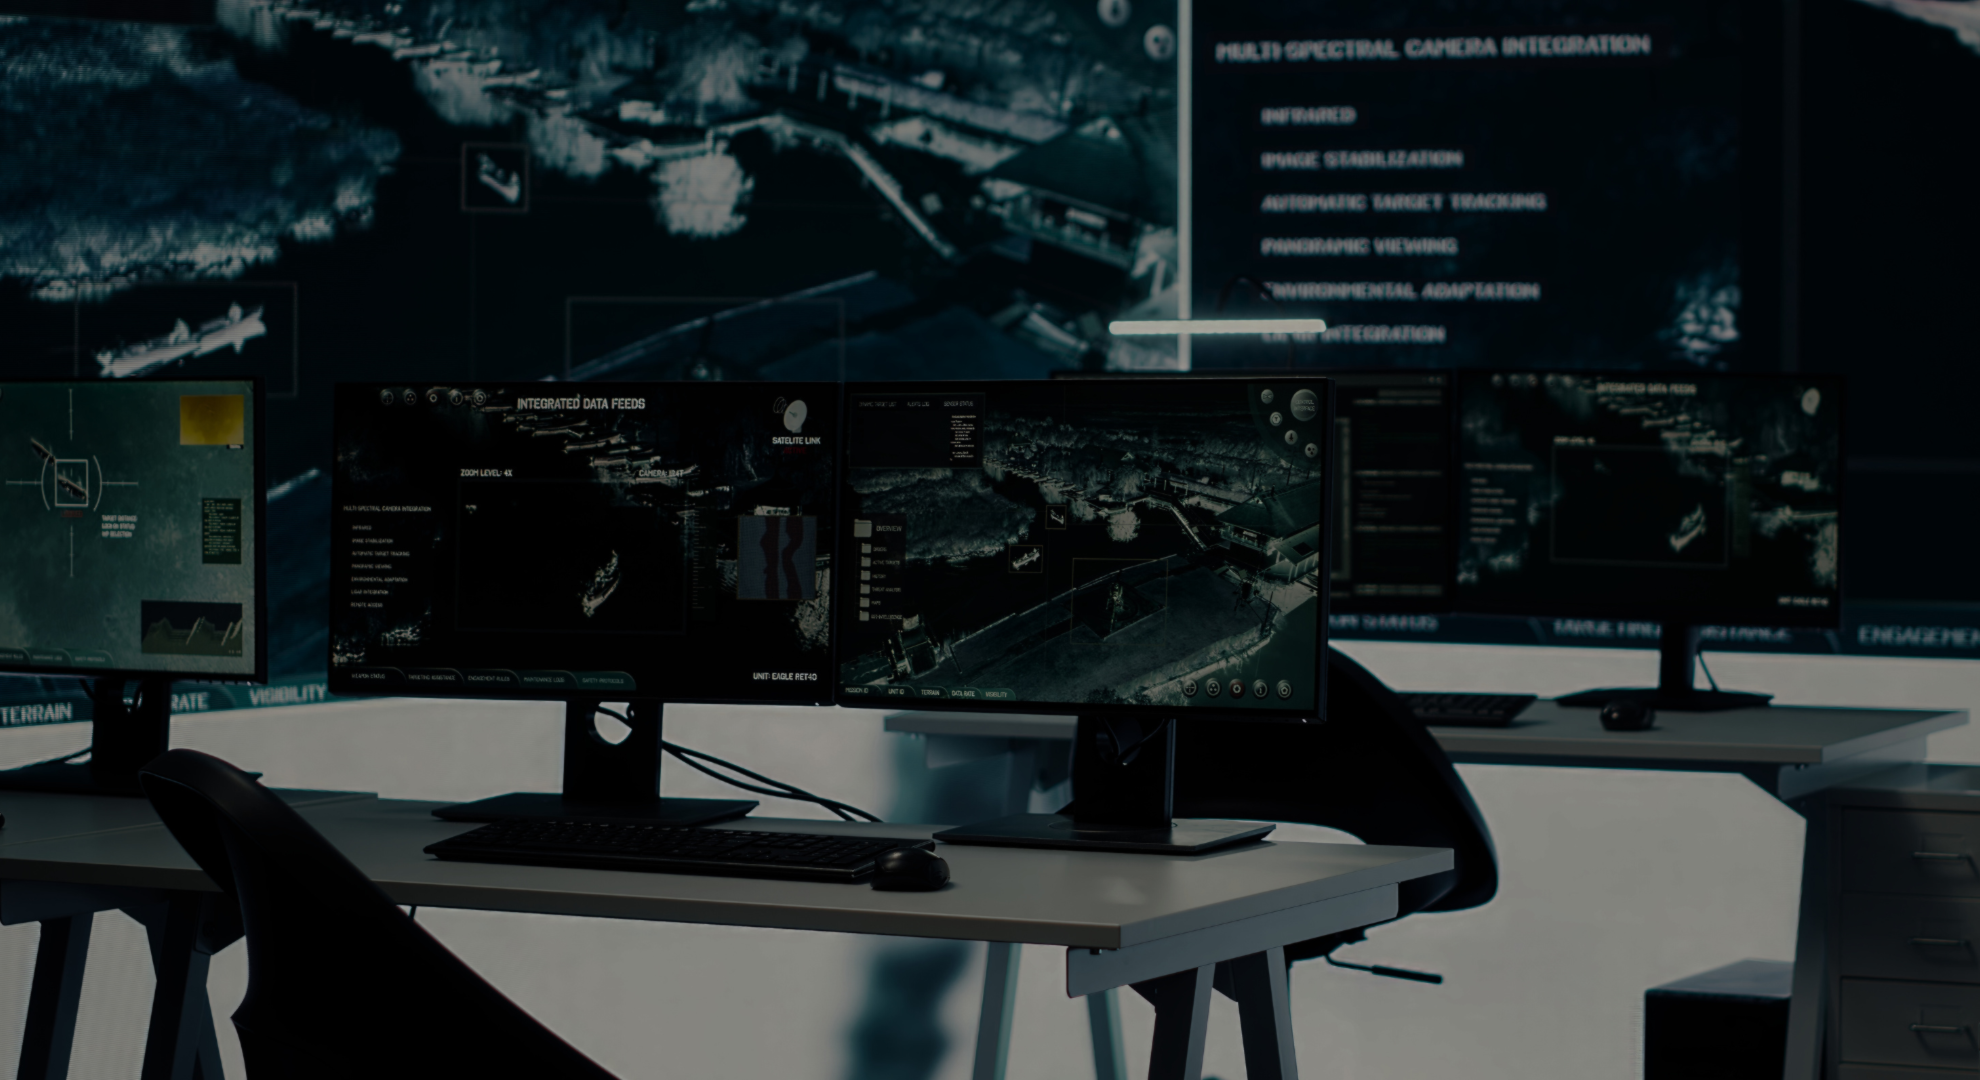
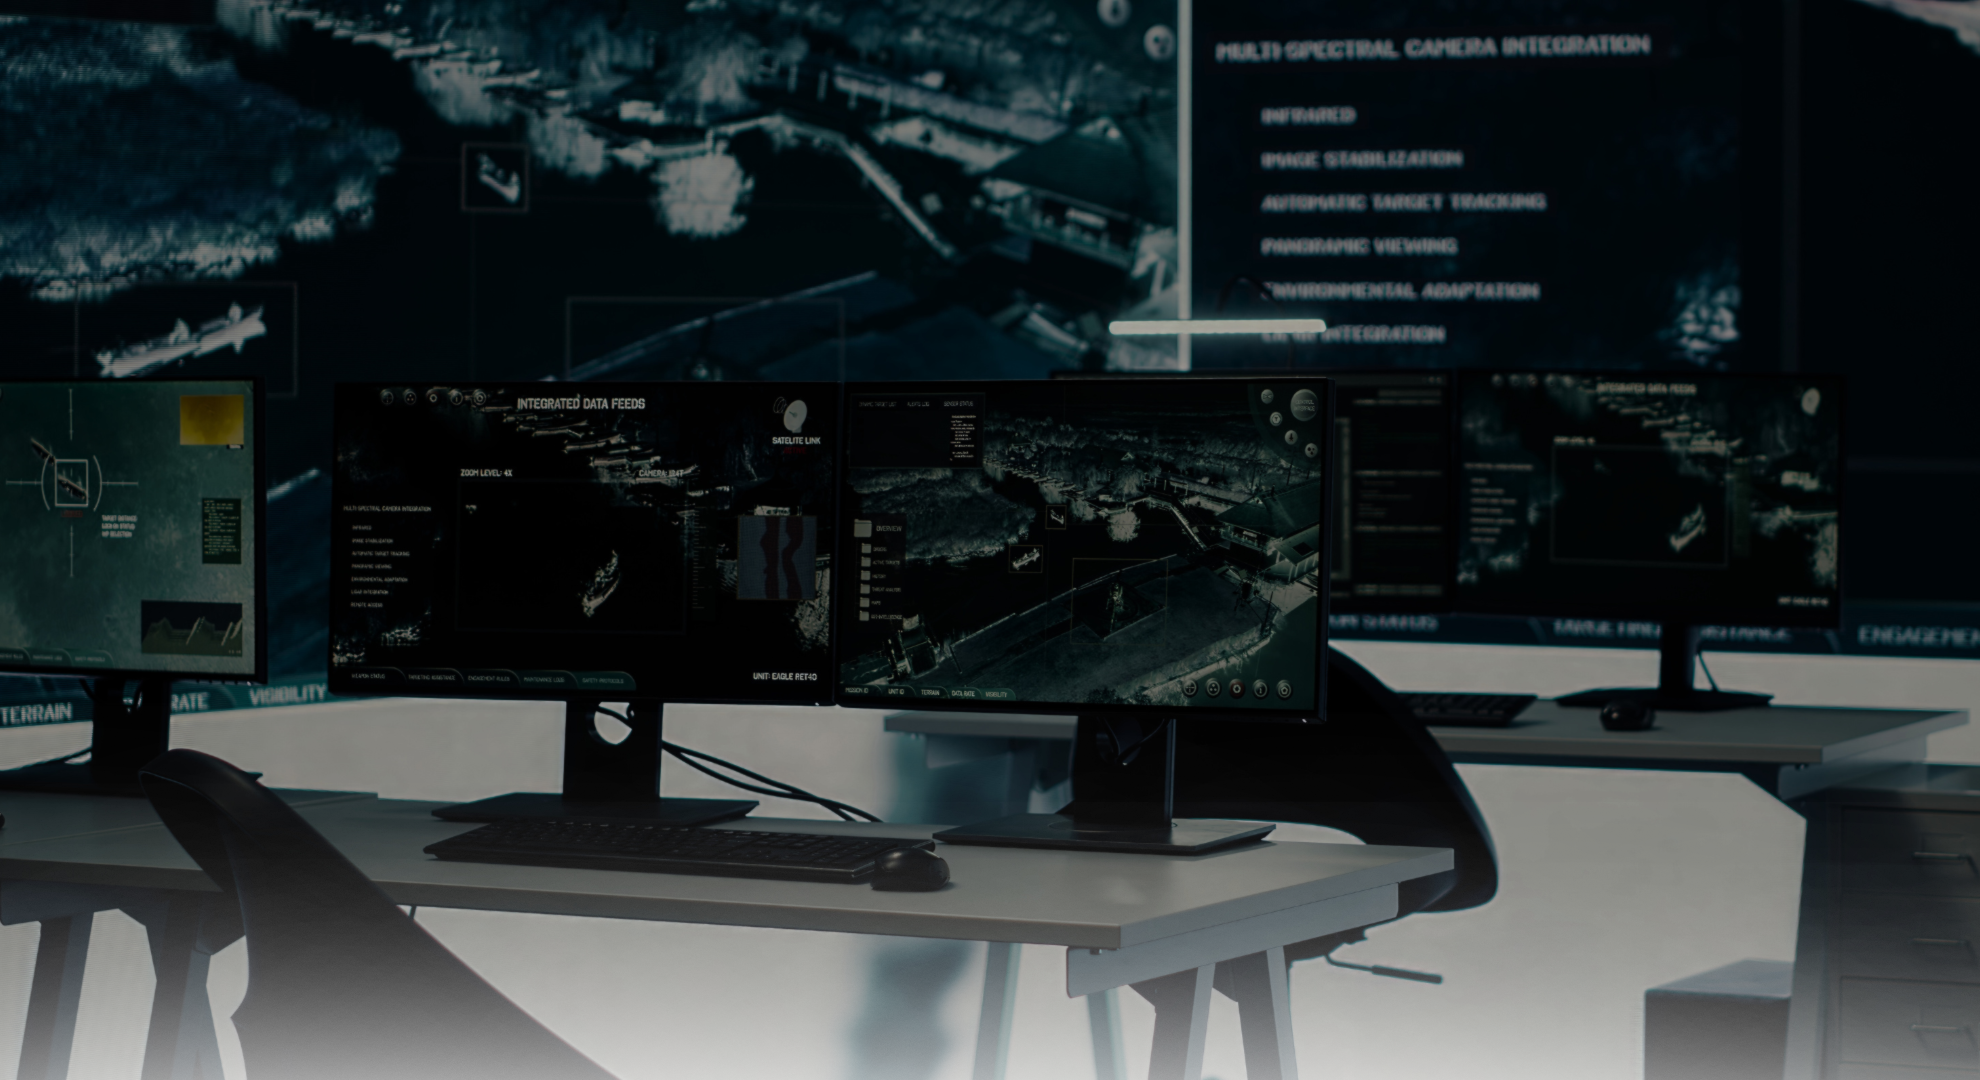
.

Changed region(s): [[0.0, 0.7944, 1.0, 1.0]]

diff --git a/index.html b/index.html
@@ -16,6 +16,7 @@
     <!--FIM CSS-->
   </head>
   <body>
+    <!-- MENU -->
     <nav class="navbar navbar-expand-md navbar-dark bg-black">
       <div class="container-fluid">
         <a class="navbar-brand d-md-none" href="#">
@@ -33,16 +34,16 @@
           <span class="navbar-toggler-icon"></span>
         </button>
         <div class="collapse navbar-collapse" id="navbarNav">
-          <ul class="navbar-nav mx-auto">
+          <ul class="navbar-nav mx-auto"><a class="navbar-brand d-none d-md-block" href="#">
+              <img src="assets/img/index/logo.png" alt />
+            </a>
             <li class="nav-item">
               <a class="nav-link mx-5" aria-current="page" href="#">Inicio</a>
             </li>
             <li class="nav-item">
               <a class="nav-link mx-5" href="#">Serviços</a>
             </li>
-            <a class="navbar-brand d-none d-md-block" href="#">
-              <img src="assets/img/index/logo.png" alt />
-            </a>
+            
             <li class="nav-item">
               <a class="nav-link mx-5" href="#">Contato</a>
             </li>
@@ -55,18 +56,42 @@
     </nav>
     <!--FIM MENU-->
 
-    <p class="index-t1 text-center text-white pt-5">
-      Rastreamento com Bloqueio<br />Assistência 24 Horas
-    </p>
-    <p class="index-t2 text-center pt-1">A partir de R$49,90</p>
+    <div class="background">
+      <p class="index-t1 fade-in text-center text-white pt-5">
+        Rastreamento com Bloqueio<br />Assistência 24 Horas
+      </p>
+      <p class="index-t1 text-center text-white">
+        <img
+          src="assets/img/index/icons/carro.png"
+          width="60px"
+          alt="carro"
+        /><img
+          style="margin-left: 30px"
+          src="assets/img/index/icons/moto.png"
+          width="60px"
+          alt="moto"
+        /><img
+          style="margin-left: 30px"
+          src="assets/img/index/icons/caminhao.png"
+          width="60px"
+          alt="caminhao"
+        />
+      </p>
+      <p class="index-t2 text-center pt-1">A partir de R$49,90</p>
 
-    <div style="text-align: center">
-      <a href="#" class="btn-saiba">Conheça Nosso Sistema</a>
+      <div style="text-align: center">
+        <a href="#r-veicular" class="btn-saiba">Conheça Nosso Sistema</a>
+      </div>
     </div>
 
-    <br /><br /><br /><br />
-    <br /><br /><br /><br />
+    <div id='r-veicular'>
+    <p class="index-t1 text-center">Rastreamento Veicular</p>
+    </div>
+</a>
 
+
+
+  
     <!-- Footer -->
     <footer class="bg-dark text-center text-white">
       <!-- Grid container -->
@@ -85,7 +110,19 @@
       <!-- Copyright -->
     </footer>
     <!-- Footer -->
+    <script>
+      const observer = new IntersectionObserver((entries) => {
+        entries.forEach((entry) => {
+          if (entry.isIntersecting) {
+            entry.target.classList.add("visible");
+          }
+        });
+      });
 
+      document.querySelectorAll(".fade-in").forEach((el) => {
+        observer.observe(el);
+      });
+    </script>
     <script
       src="https://cdn.jsdelivr.net/npm/bootstrap@5.3.7/dist/js/bootstrap.bundle.min.js"
       integrity="sha384-ndDqU0Gzau9qJ1lfW4pNLlhNTkCfHzAVBReH9diLvGRem5+R9g2FzA8ZGN954O5Q"

diff --git a/assets/css/index.css b/assets/css/index.css
@@ -6,13 +6,6 @@ nav {
   background-color: black;
 }
 
-body {
-  background-image: url(/assets/img/index/background-pc.png);
-  background-repeat: no-repeat;
-  background-position: center;
-  height: 100vh;
-  margin: 0;
-}
 
 .index-t1 {
   margin-top: 25px;
@@ -26,6 +19,16 @@ body {
   color: rgb(216, 216, 0);
 }
 
+.background {
+    background-repeat: no-repeat;
+    background-position: center;
+  background-size: cover;
+  height: 130vh;
+  margin-top: -50px;
+  background: 
+    linear-gradient(to bottom, rgba(0, 0, 0, 0) 70%, rgb(255, 255, 255)),
+    url("/assets/img/index/background-pc.png");
+  }
 .navbar-brand img {
   width: 50px;
 }
@@ -66,13 +69,39 @@ body {
   position: relative;
   top: 1px;
 }
+
+.fade-in {
+  opacity: 0;
+  transform: translateY(70px);
+  transition: all .8s ease-out;
+}
+
+.fade-in.visible {
+  opacity: 1;
+  transform: translateY(0);
+}
+
+#r-veicular {
+  height: 100vh;
+  padding-top: 40px;
+}
 @media screen and (min-width: 768px) {
   body {
-    background-image: url(/assets/img/index/background-pc.png);
     background-repeat: no-repeat;
     background-position: center;
     height: 100vh;
     margin: 0;
+  }
+
+  .background {
+    background-repeat: no-repeat;
+    background-position: center;
+  background-size: cover;
+  height: 130vh;
+  margin-top: -50px;
+  background: 
+    linear-gradient(to bottom, rgba(0, 0, 0, 0) 70%, rgb(255, 255, 255)),
+    url("/assets/img/index/background-pc.png");
   }
 
   .index-t1 {
